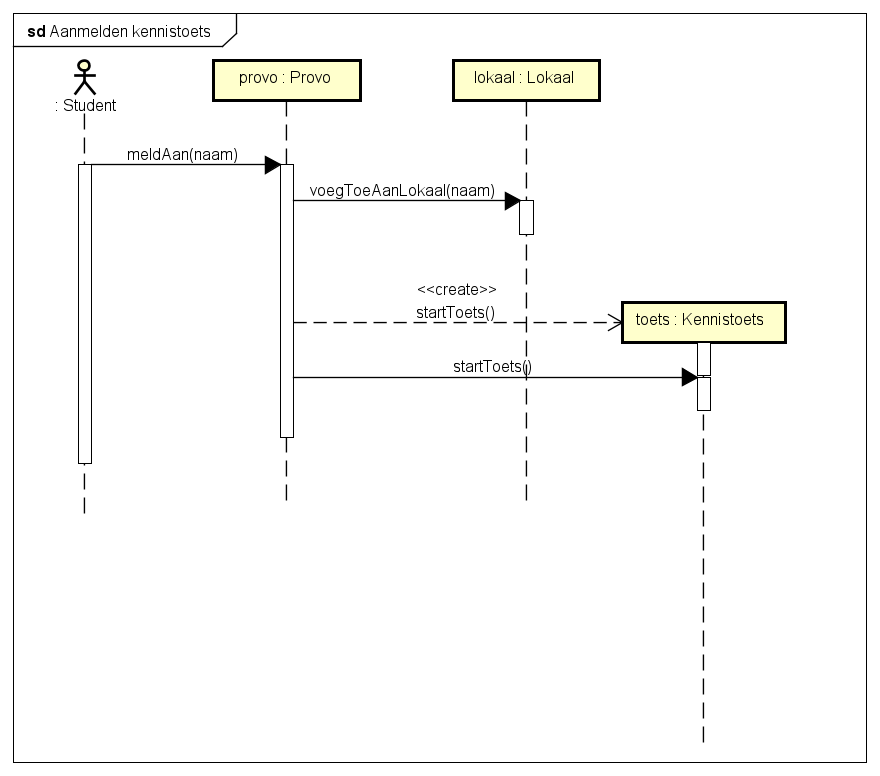
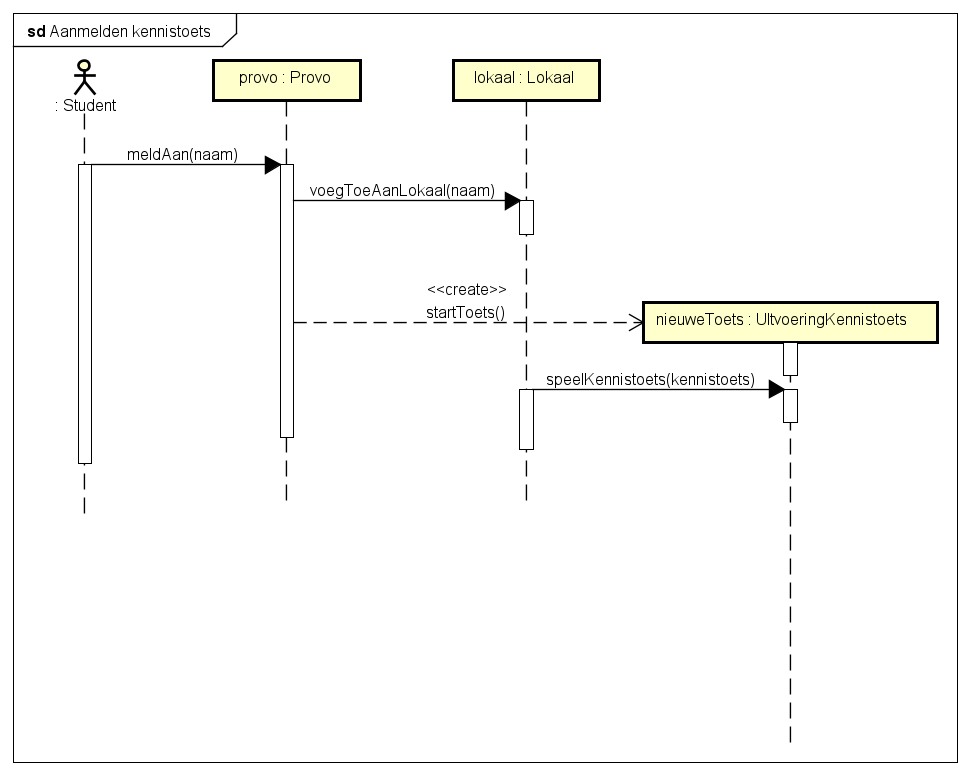
Update sequence diagram mbt code

diff --git a/Code/src/han/oose/ooad/Lokaal.java b/Code/src/han/oose/ooad/Lokaal.java
@@ -12,13 +12,12 @@ public class Lokaal {
         if(lokaal == lokaalNummer){
             voegToeAanLokaal(naam);
 
-
             Kennistoets kennistoets = new Kennistoets(lokaalNummer, vragen);
             UitvoeringKennistoets nieuweToets = new UitvoeringKennistoets(kennistoets);
             //TODO: how to actually load uitvoeringKennisToets
             nieuweToets.speelKennistoets();
         } else {
-            // Betere error handling toevoegen dan alleen restarten (maybe room opnieuw kunnen invoeren zoals op provo.java?)
+            //TODO: Betere error handling toevoegen dan alleen restarten (maybe room opnieuw kunnen invoeren zoals op provo.java?)
             System.out.println("\nRoom doesn't exist, signing user out...");
         }
     }

diff --git a/Code/src/han/oose/ooad/Provo.java b/Code/src/han/oose/ooad/Provo.java
@@ -38,6 +38,7 @@ public class Provo {
         }
     }
 
+    //TODO: check if parseint exists in Java? idk man
     public static void testInt(){
         Scanner scanner = new Scanner(System.in);
 
